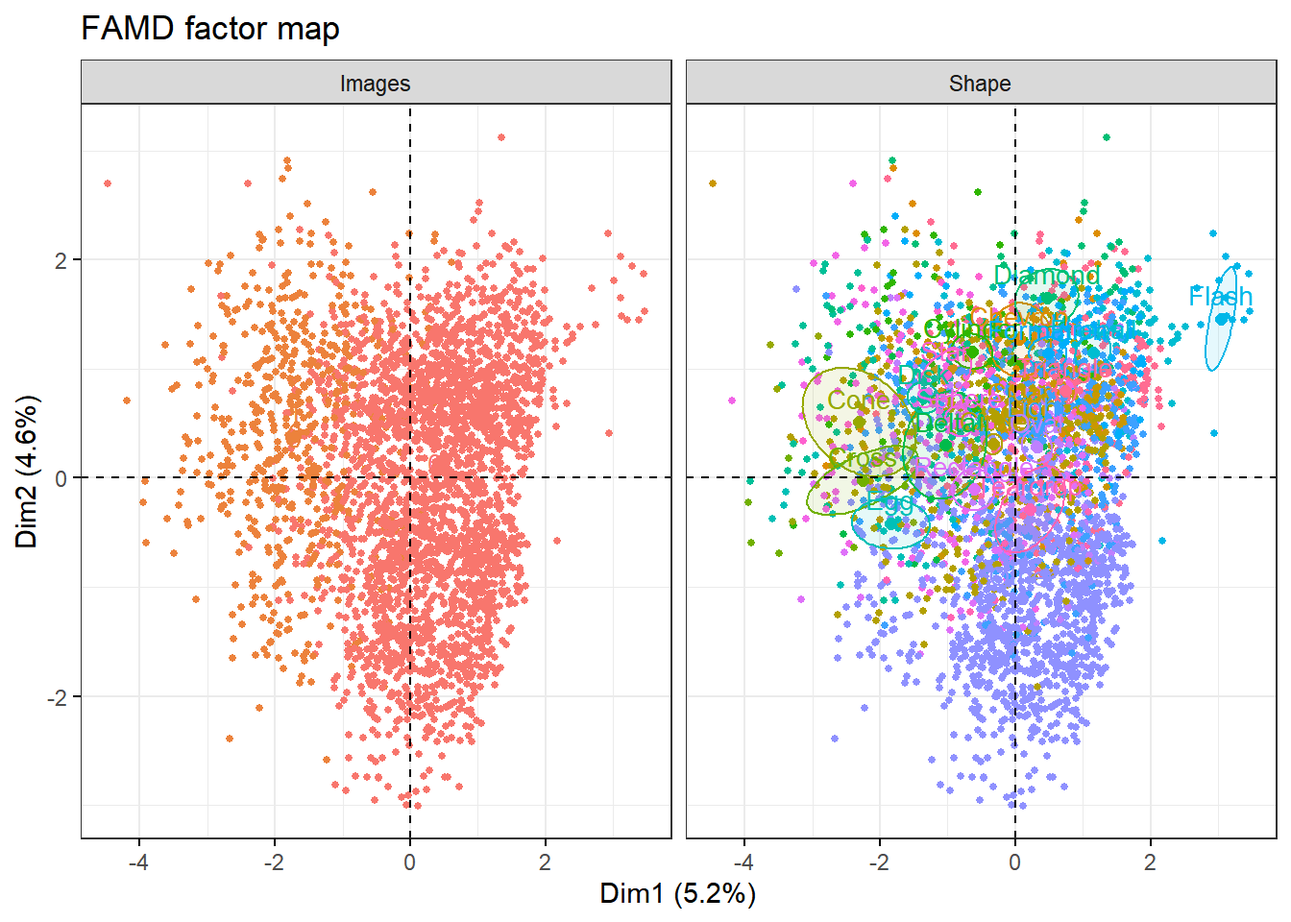
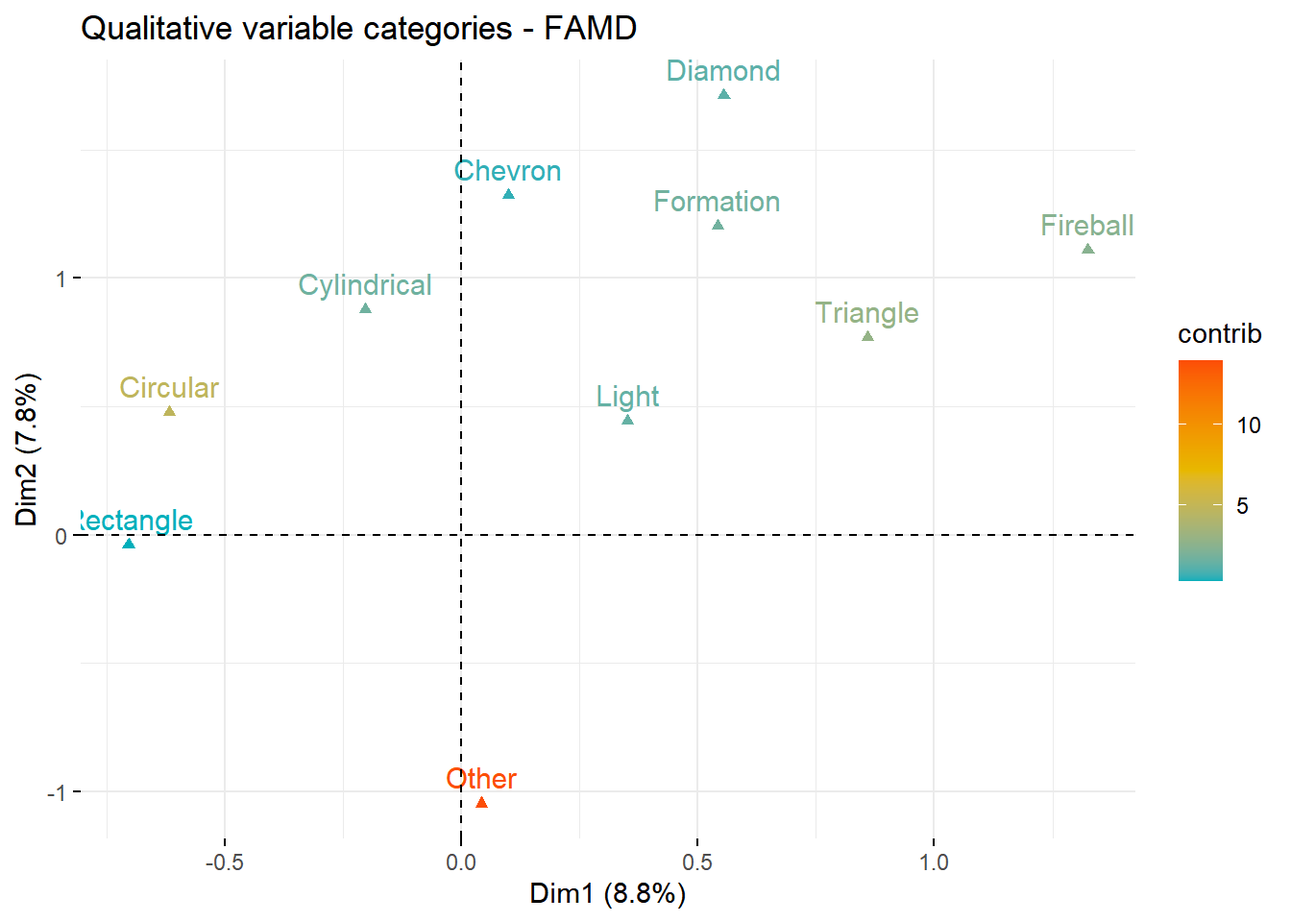
grouped shapes

diff --git a/notebooks/exp.html b/notebooks/exp.html
@@ -160,84 +160,148 @@ Attaching package: 'data.table'</code></pre>
 
     between, first, last</code></pre>
 </div>
+<div class="cell-output-display">
+<div class="quarto-figure quarto-figure-center">
+<figure class="figure">
+<p><img src="exp_files/figure-html/unnamed-chunk-1-1.png" class="img-fluid figure-img" width="672"></p>
+<p></p><figcaption class="figure-caption">Shape frequencies</figcaption><p></p>
+</figure>
+</div>
+</div>
 </div>
 <div class="cell">
-<div class="sourceCode cell-code" id="cb10"><pre class="sourceCode r code-with-copy"><code class="sourceCode r"><span id="cb10-1"><a href="#cb10-1" aria-hidden="true" tabindex="-1"></a>res.famd <span class="ot">&lt;-</span> <span class="fu">FAMD</span>(DT, <span class="at">graph =</span> F)</span>
-<span id="cb10-2"><a href="#cb10-2" aria-hidden="true" tabindex="-1"></a>eig.val <span class="ot">&lt;-</span> <span class="fu">get_eigenvalue</span>(res.famd)</span>
-<span id="cb10-3"><a href="#cb10-3" aria-hidden="true" tabindex="-1"></a><span class="co"># plot</span></span>
-<span id="cb10-4"><a href="#cb10-4" aria-hidden="true" tabindex="-1"></a><span class="fu">fviz_eig</span>(res.famd)</span></code><button title="Copy to Clipboard" class="code-copy-button"><i class="bi"></i></button></pre></div>
+<div class="sourceCode cell-code" id="cb10"><pre class="sourceCode r code-with-copy"><code class="sourceCode r"><span id="cb10-1"><a href="#cb10-1" aria-hidden="true" tabindex="-1"></a><span class="co"># some manual grouping</span></span>
+<span id="cb10-2"><a href="#cb10-2" aria-hidden="true" tabindex="-1"></a>DT[Shape <span class="sc">%in%</span> <span class="fu">c</span>(<span class="st">'Circle'</span>, <span class="st">'Egg'</span>, <span class="st">'Disk'</span>, <span class="st">'Oval'</span>, <span class="st">'Sphere'</span>), Shape <span class="sc">:</span><span class="er">=</span> <span class="st">'Circular'</span>]</span>
+<span id="cb10-3"><a href="#cb10-3" aria-hidden="true" tabindex="-1"></a>DT[Shape <span class="sc">%in%</span> <span class="fu">c</span>(<span class="st">'Cigar'</span>, <span class="st">'Cylinder'</span>), Shape <span class="sc">:</span><span class="er">=</span> <span class="st">'Cylindrical'</span>]</span>
+<span id="cb10-4"><a href="#cb10-4" aria-hidden="true" tabindex="-1"></a></span>
+<span id="cb10-5"><a href="#cb10-5" aria-hidden="true" tabindex="-1"></a><span class="fu">ggplot</span>(<span class="at">data=</span>DT, <span class="fu">aes</span>(<span class="fu">factor</span>(Shape), <span class="at">fill=</span>Shape)) <span class="sc">+</span></span>
+<span id="cb10-6"><a href="#cb10-6" aria-hidden="true" tabindex="-1"></a>  <span class="fu">geom_bar</span>()  <span class="sc">+</span></span>
+<span id="cb10-7"><a href="#cb10-7" aria-hidden="true" tabindex="-1"></a>  <span class="fu">coord_flip</span>()</span></code><button title="Copy to Clipboard" class="code-copy-button"><i class="bi"></i></button></pre></div>
 <div class="cell-output-display">
 <p><img src="exp_files/figure-html/unnamed-chunk-2-1.png" class="img-fluid" width="672"></p>
 </div>
 </div>
 <div class="cell">
-<div class="sourceCode cell-code" id="cb11"><pre class="sourceCode r code-with-copy"><code class="sourceCode r"><span id="cb11-1"><a href="#cb11-1" aria-hidden="true" tabindex="-1"></a>var <span class="ot">&lt;-</span> <span class="fu">get_famd_var</span>(res.famd)</span>
-<span id="cb11-2"><a href="#cb11-2" aria-hidden="true" tabindex="-1"></a><span class="co"># Coordinates of variables</span></span>
-<span id="cb11-3"><a href="#cb11-3" aria-hidden="true" tabindex="-1"></a><span class="fu">print</span>(<span class="fu">head</span>(var<span class="sc">$</span>coord))</span></code><button title="Copy to Clipboard" class="code-copy-button"><i class="bi"></i></button></pre></div>
+<div class="sourceCode cell-code" id="cb11"><pre class="sourceCode r code-with-copy"><code class="sourceCode r"><span id="cb11-1"><a href="#cb11-1" aria-hidden="true" tabindex="-1"></a><span class="fu">print</span>(<span class="fu">summary</span>(DT[, .(<span class="at">freq=</span>.N), <span class="at">by=</span>Shape]))</span></code><button title="Copy to Clipboard" class="code-copy-button"><i class="bi"></i></button></pre></div>
 <div class="cell-output cell-output-stdout">
-<pre><code>                       Dim.1        Dim.2       Dim.3        Dim.4       Dim.5
-Images           0.466604033 0.0272348627 0.003379757 0.0006704182 0.037200093
-Updated_Duration 0.033982375 0.0194261909 0.033064200 0.3203406277 0.104357640
-Lat              0.020133855 0.0215534995 0.412390085 0.0073504160 0.066636970
-Lng              0.008858782 0.1328400239 0.257144753 0.1034806088 0.041811149
-month            0.491605151 0.0009332282 0.001513371 0.0108839633 0.005557622
-hour             0.075288608 0.3755832920 0.123630897 0.0005136693 0.010869958</code></pre>
-</div>
-<div class="sourceCode cell-code" id="cb13"><pre class="sourceCode r code-with-copy"><code class="sourceCode r"><span id="cb13-1"><a href="#cb13-1" aria-hidden="true" tabindex="-1"></a><span class="co"># Cos2: quality of representation on the factore map</span></span>
-<span id="cb13-2"><a href="#cb13-2" aria-hidden="true" tabindex="-1"></a><span class="fu">print</span>(<span class="fu">head</span>(var<span class="sc">$</span>cos2))</span></code><button title="Copy to Clipboard" class="code-copy-button"><i class="bi"></i></button></pre></div>
-<div class="cell-output cell-output-stdout">
-<pre><code>                        Dim.1        Dim.2        Dim.3        Dim.4
-Images           2.177193e-01 7.417377e-04 1.142276e-05 4.494605e-07
-Updated_Duration 1.154802e-03 3.773769e-04 1.093241e-03 1.026181e-01
-Lat              4.053721e-04 4.645533e-04 1.700656e-01 5.402862e-05
-Lng              7.847802e-05 1.764647e-02 6.612342e-02 1.070824e-02
-month            2.416756e-01 8.709148e-07 2.290293e-06 1.184607e-04
-hour             5.668375e-03 1.410628e-01 1.528460e-02 2.638561e-07
-                        Dim.5
-Images           1.383847e-03
-Updated_Duration 1.089052e-02
-Lat              4.440486e-03
-Lng              1.748172e-03
-month            3.088717e-05
-hour             1.181560e-04</code></pre>
-</div>
-<div class="sourceCode cell-code" id="cb15"><pre class="sourceCode r code-with-copy"><code class="sourceCode r"><span id="cb15-1"><a href="#cb15-1" aria-hidden="true" tabindex="-1"></a><span class="co"># Contributions to the  dimensions</span></span>
-<span id="cb15-2"><a href="#cb15-2" aria-hidden="true" tabindex="-1"></a><span class="fu">print</span>(<span class="fu">head</span>(var<span class="sc">$</span>contrib))</span></code><button title="Copy to Clipboard" class="code-copy-button"><i class="bi"></i></button></pre></div>
-<div class="cell-output cell-output-stdout">
-<pre><code>                     Dim.1       Dim.2      Dim.3       Dim.4      Dim.5
-Images           34.334508  2.28745712  0.3006441  0.06269520  3.6037506
-Updated_Duration  2.500553  1.63160649  2.9412052 29.95715535 10.1096229
-Lat               1.481526  1.81027922 36.6839010  0.68738566  6.4554415
-Lng               0.651863 11.15723850 22.8741500  9.67715115  4.0504456
-month            36.174186  0.07838187  0.1346210  1.01783087  0.5383934
-hour              5.540024 31.54525455 10.9975088  0.04803659  1.0530247</code></pre>
+<pre><code>    Shape                freq        
+ Length:16          Min.   :   9.00  
+ Class :character   1st Qu.:  17.75  
+ Mode  :character   Median :  56.50  
+                    Mean   : 193.94  
+                    3rd Qu.: 201.00  
+                    Max.   :1060.00  </code></pre>
 </div>
 </div>
 <div class="cell">
-<div class="sourceCode cell-code" id="cb17"><pre class="sourceCode r code-with-copy"><code class="sourceCode r"><span id="cb17-1"><a href="#cb17-1" aria-hidden="true" tabindex="-1"></a><span class="co"># Plot of variables</span></span>
-<span id="cb17-2"><a href="#cb17-2" aria-hidden="true" tabindex="-1"></a><span class="fu">fviz_famd_var</span>(res.famd, <span class="at">repel =</span> <span class="cn">TRUE</span>)</span></code><button title="Copy to Clipboard" class="code-copy-button"><i class="bi"></i></button></pre></div>
-<div class="cell-output-display">
-<p><img src="exp_files/figure-html/unnamed-chunk-4-1.png" class="img-fluid" width="672"></p>
+<div class="sourceCode cell-code" id="cb13"><pre class="sourceCode r code-with-copy"><code class="sourceCode r"><span id="cb13-1"><a href="#cb13-1" aria-hidden="true" tabindex="-1"></a><span class="fu">print</span>(<span class="fu">setorder</span>(DT[, .(<span class="at">freq=</span>.N), <span class="at">by=</span>Shape], <span class="st">'freq'</span>)[])</span></code><button title="Copy to Clipboard" class="code-copy-button"><i class="bi"></i></button></pre></div>
+<div class="cell-output cell-output-stdout">
+<pre><code>          Shape freq
+ 1:        Cone    9
+ 2:       Cross   12
+ 3:       Flash   14
+ 4:       Delta   14
+ 5:    Teardrop   19
+ 6:        Star   30
+ 7:     Chevron   33
+ 8:     Diamond   37
+ 9:   Rectangle   76
+10:    Fireball   81
+11:   Formation   95
+12: Cylindrical  197
+13:    Triangle  213
+14:       Light  440
+15:    Circular  773
+16:       Other 1060</code></pre>
 </div>
 </div>
 <div class="cell">
-<div class="sourceCode cell-code" id="cb18"><pre class="sourceCode r code-with-copy"><code class="sourceCode r"><span id="cb18-1"><a href="#cb18-1" aria-hidden="true" tabindex="-1"></a><span class="co"># Contribution to the first dimension</span></span>
-<span id="cb18-2"><a href="#cb18-2" aria-hidden="true" tabindex="-1"></a><span class="fu">fviz_contrib</span>(res.famd, <span class="st">"var"</span>, <span class="at">axes =</span> <span class="dv">1</span>)</span></code><button title="Copy to Clipboard" class="code-copy-button"><i class="bi"></i></button></pre></div>
+<div class="sourceCode cell-code" id="cb15"><pre class="sourceCode r code-with-copy"><code class="sourceCode r"><span id="cb15-1"><a href="#cb15-1" aria-hidden="true" tabindex="-1"></a>DT[Shape <span class="sc">%in%</span> <span class="fu">setorder</span>(DT[, .(<span class="at">freq=</span>.N), <span class="at">by=</span>Shape], <span class="st">'freq'</span>)<span class="sc">$</span>Shape[<span class="dv">1</span><span class="sc">:</span><span class="dv">6</span>], Shape <span class="sc">:</span><span class="er">=</span> <span class="st">'Other'</span>]</span>
+<span id="cb15-2"><a href="#cb15-2" aria-hidden="true" tabindex="-1"></a></span>
+<span id="cb15-3"><a href="#cb15-3" aria-hidden="true" tabindex="-1"></a><span class="fu">ggplot</span>(<span class="at">data=</span>DT, <span class="fu">aes</span>(<span class="fu">factor</span>(Shape), <span class="at">fill=</span>Shape)) <span class="sc">+</span></span>
+<span id="cb15-4"><a href="#cb15-4" aria-hidden="true" tabindex="-1"></a>  <span class="fu">geom_bar</span>()  <span class="sc">+</span></span>
+<span id="cb15-5"><a href="#cb15-5" aria-hidden="true" tabindex="-1"></a>  <span class="fu">coord_flip</span>()</span></code><button title="Copy to Clipboard" class="code-copy-button"><i class="bi"></i></button></pre></div>
 <div class="cell-output-display">
 <p><img src="exp_files/figure-html/unnamed-chunk-5-1.png" class="img-fluid" width="672"></p>
 </div>
 </div>
 <div class="cell">
-<div class="sourceCode cell-code" id="cb19"><pre class="sourceCode r code-with-copy"><code class="sourceCode r"><span id="cb19-1"><a href="#cb19-1" aria-hidden="true" tabindex="-1"></a><span class="co"># Contribution to the second dimension</span></span>
-<span id="cb19-2"><a href="#cb19-2" aria-hidden="true" tabindex="-1"></a><span class="fu">fviz_contrib</span>(res.famd, <span class="st">"var"</span>, <span class="at">axes =</span> <span class="dv">2</span>)</span></code><button title="Copy to Clipboard" class="code-copy-button"><i class="bi"></i></button></pre></div>
+<div class="sourceCode cell-code" id="cb16"><pre class="sourceCode r code-with-copy"><code class="sourceCode r"><span id="cb16-1"><a href="#cb16-1" aria-hidden="true" tabindex="-1"></a>res.famd <span class="ot">&lt;-</span> <span class="fu">FAMD</span>(DT, <span class="at">graph =</span> F)</span>
+<span id="cb16-2"><a href="#cb16-2" aria-hidden="true" tabindex="-1"></a>eig.val <span class="ot">&lt;-</span> <span class="fu">get_eigenvalue</span>(res.famd)</span>
+<span id="cb16-3"><a href="#cb16-3" aria-hidden="true" tabindex="-1"></a><span class="co"># plot</span></span>
+<span id="cb16-4"><a href="#cb16-4" aria-hidden="true" tabindex="-1"></a><span class="fu">fviz_eig</span>(res.famd)</span></code><button title="Copy to Clipboard" class="code-copy-button"><i class="bi"></i></button></pre></div>
 <div class="cell-output-display">
 <p><img src="exp_files/figure-html/unnamed-chunk-6-1.png" class="img-fluid" width="672"></p>
 </div>
 </div>
 <div class="cell">
-<div class="sourceCode cell-code" id="cb20"><pre class="sourceCode r code-with-copy"><code class="sourceCode r"><span id="cb20-1"><a href="#cb20-1" aria-hidden="true" tabindex="-1"></a><span class="co"># extract the results for quantitative variables</span></span>
-<span id="cb20-2"><a href="#cb20-2" aria-hidden="true" tabindex="-1"></a>quanti.var <span class="ot">&lt;-</span> <span class="fu">get_famd_var</span>(res.famd, <span class="st">"quanti.var"</span>)</span>
-<span id="cb20-3"><a href="#cb20-3" aria-hidden="true" tabindex="-1"></a><span class="fu">print</span>(quanti.var)</span></code><button title="Copy to Clipboard" class="code-copy-button"><i class="bi"></i></button></pre></div>
+<div class="sourceCode cell-code" id="cb17"><pre class="sourceCode r code-with-copy"><code class="sourceCode r"><span id="cb17-1"><a href="#cb17-1" aria-hidden="true" tabindex="-1"></a>var <span class="ot">&lt;-</span> <span class="fu">get_famd_var</span>(res.famd)</span>
+<span id="cb17-2"><a href="#cb17-2" aria-hidden="true" tabindex="-1"></a><span class="co"># Coordinates of variables</span></span>
+<span id="cb17-3"><a href="#cb17-3" aria-hidden="true" tabindex="-1"></a><span class="fu">print</span>(<span class="fu">head</span>(var<span class="sc">$</span>coord))</span></code><button title="Copy to Clipboard" class="code-copy-button"><i class="bi"></i></button></pre></div>
+<div class="cell-output cell-output-stdout">
+<pre><code>                       Dim.1       Dim.2        Dim.3       Dim.4       Dim.5
+Images           0.481038875 0.042689146 0.0002418887 0.001406802 0.033538006
+Updated_Duration 0.047199755 0.028318602 0.0526445726 0.195513509 0.096426139
+Lat              0.030129086 0.017964834 0.4156688038 0.005012733 0.029641535
+Lng              0.003989455 0.122317781 0.2932527147 0.170024646 0.010040583
+month            0.493281602 0.001664271 0.0006173218 0.025378140 0.004358104
+hour             0.088363159 0.355835261 0.1372538742 0.005342196 0.003282313</code></pre>
+</div>
+<div class="sourceCode cell-code" id="cb19"><pre class="sourceCode r code-with-copy"><code class="sourceCode r"><span id="cb19-1"><a href="#cb19-1" aria-hidden="true" tabindex="-1"></a><span class="co"># Cos2: quality of representation on the factore map</span></span>
+<span id="cb19-2"><a href="#cb19-2" aria-hidden="true" tabindex="-1"></a><span class="fu">print</span>(<span class="fu">head</span>(var<span class="sc">$</span>cos2))</span></code><button title="Copy to Clipboard" class="code-copy-button"><i class="bi"></i></button></pre></div>
+<div class="cell-output cell-output-stdout">
+<pre><code>                        Dim.1        Dim.2        Dim.3        Dim.4
+Images           2.313984e-01 1.822363e-03 5.851014e-08 1.979091e-06
+Updated_Duration 2.227817e-03 8.019432e-04 2.771451e-03 3.822553e-02
+Lat              9.077618e-04 3.227353e-04 1.727806e-01 2.512749e-05
+Lng              1.591575e-05 1.496164e-02 8.599715e-02 2.890838e-02
+month            2.433267e-01 2.769799e-06 3.810862e-07 6.440500e-04
+hour             7.808048e-03 1.266187e-01 1.883863e-02 2.853906e-05
+                        Dim.5
+Images           1.124798e-03
+Updated_Duration 9.298000e-03
+Lat              8.786206e-04
+Lng              1.008133e-04
+month            1.899307e-05
+hour             1.077358e-05</code></pre>
+</div>
+<div class="sourceCode cell-code" id="cb21"><pre class="sourceCode r code-with-copy"><code class="sourceCode r"><span id="cb21-1"><a href="#cb21-1" aria-hidden="true" tabindex="-1"></a><span class="co"># Contributions to the  dimensions</span></span>
+<span id="cb21-2"><a href="#cb21-2" aria-hidden="true" tabindex="-1"></a><span class="fu">print</span>(<span class="fu">head</span>(var<span class="sc">$</span>contrib))</span></code><button title="Copy to Clipboard" class="code-copy-button"><i class="bi"></i></button></pre></div>
+<div class="cell-output cell-output-stdout">
+<pre><code>                     Dim.1      Dim.2       Dim.3      Dim.4     Dim.5
+Images           36.353898  3.6301566  0.02181459  0.1361156 3.2987770
+Updated_Duration  3.567061  2.4081288  4.74771947 18.9169808 9.4844139
+Lat               2.276967  1.5276754 37.48684389  0.4850088 2.9155225
+Lng               0.301498 10.4015362 26.44682169 16.4507966 0.9875854
+month            37.279126  0.1415246  0.05567280  2.4554711 0.4286603
+hour              6.677933 30.2591603 12.37815902  0.5168861 0.3228462</code></pre>
+</div>
+</div>
+<div class="cell">
+<div class="sourceCode cell-code" id="cb23"><pre class="sourceCode r code-with-copy"><code class="sourceCode r"><span id="cb23-1"><a href="#cb23-1" aria-hidden="true" tabindex="-1"></a><span class="co"># Plot of variables</span></span>
+<span id="cb23-2"><a href="#cb23-2" aria-hidden="true" tabindex="-1"></a><span class="fu">fviz_famd_var</span>(res.famd, <span class="at">repel =</span> <span class="cn">TRUE</span>)</span></code><button title="Copy to Clipboard" class="code-copy-button"><i class="bi"></i></button></pre></div>
+<div class="cell-output-display">
+<p><img src="exp_files/figure-html/unnamed-chunk-8-1.png" class="img-fluid" width="672"></p>
+</div>
+</div>
+<div class="cell">
+<div class="sourceCode cell-code" id="cb24"><pre class="sourceCode r code-with-copy"><code class="sourceCode r"><span id="cb24-1"><a href="#cb24-1" aria-hidden="true" tabindex="-1"></a><span class="co"># Contribution to the first dimension</span></span>
+<span id="cb24-2"><a href="#cb24-2" aria-hidden="true" tabindex="-1"></a><span class="fu">fviz_contrib</span>(res.famd, <span class="st">"var"</span>, <span class="at">axes =</span> <span class="dv">1</span>)</span></code><button title="Copy to Clipboard" class="code-copy-button"><i class="bi"></i></button></pre></div>
+<div class="cell-output-display">
+<p><img src="exp_files/figure-html/unnamed-chunk-9-1.png" class="img-fluid" width="672"></p>
+</div>
+</div>
+<div class="cell">
+<div class="sourceCode cell-code" id="cb25"><pre class="sourceCode r code-with-copy"><code class="sourceCode r"><span id="cb25-1"><a href="#cb25-1" aria-hidden="true" tabindex="-1"></a><span class="co"># Contribution to the second dimension</span></span>
+<span id="cb25-2"><a href="#cb25-2" aria-hidden="true" tabindex="-1"></a><span class="fu">fviz_contrib</span>(res.famd, <span class="st">"var"</span>, <span class="at">axes =</span> <span class="dv">2</span>)</span></code><button title="Copy to Clipboard" class="code-copy-button"><i class="bi"></i></button></pre></div>
+<div class="cell-output-display">
+<p><img src="exp_files/figure-html/unnamed-chunk-10-1.png" class="img-fluid" width="672"></p>
+</div>
+</div>
+<div class="cell">
+<div class="sourceCode cell-code" id="cb26"><pre class="sourceCode r code-with-copy"><code class="sourceCode r"><span id="cb26-1"><a href="#cb26-1" aria-hidden="true" tabindex="-1"></a><span class="co"># extract the results for quantitative variables</span></span>
+<span id="cb26-2"><a href="#cb26-2" aria-hidden="true" tabindex="-1"></a>quanti.var <span class="ot">&lt;-</span> <span class="fu">get_famd_var</span>(res.famd, <span class="st">"quanti.var"</span>)</span>
+<span id="cb26-3"><a href="#cb26-3" aria-hidden="true" tabindex="-1"></a><span class="fu">print</span>(quanti.var)</span></code><button title="Copy to Clipboard" class="code-copy-button"><i class="bi"></i></button></pre></div>
 <div class="cell-output cell-output-stdout">
 <pre><code>FAMD results for quantitative variables 
  ===================================================
@@ -248,29 +312,29 @@ hour              5.540024 31.54525455 10.9975088  0.04803659  1.0530247</code><
 </div>
 </div>
 <div class="cell">
-<div class="sourceCode cell-code" id="cb22"><pre class="sourceCode r code-with-copy"><code class="sourceCode r"><span id="cb22-1"><a href="#cb22-1" aria-hidden="true" tabindex="-1"></a><span class="fu">fviz_famd_var</span>(res.famd, <span class="st">"quanti.var"</span>, <span class="at">col.var =</span> <span class="st">"contrib"</span>, </span>
-<span id="cb22-2"><a href="#cb22-2" aria-hidden="true" tabindex="-1"></a>              <span class="at">gradient.cols =</span> <span class="fu">c</span>(<span class="st">"#00AFBB"</span>, <span class="st">"#E7B800"</span>, <span class="st">"#FC4E07"</span>),</span>
-<span id="cb22-3"><a href="#cb22-3" aria-hidden="true" tabindex="-1"></a>              <span class="at">repel =</span> T)</span></code><button title="Copy to Clipboard" class="code-copy-button"><i class="bi"></i></button></pre></div>
+<div class="sourceCode cell-code" id="cb28"><pre class="sourceCode r code-with-copy"><code class="sourceCode r"><span id="cb28-1"><a href="#cb28-1" aria-hidden="true" tabindex="-1"></a><span class="fu">fviz_famd_var</span>(res.famd, <span class="st">"quanti.var"</span>, <span class="at">col.var =</span> <span class="st">"contrib"</span>, </span>
+<span id="cb28-2"><a href="#cb28-2" aria-hidden="true" tabindex="-1"></a>              <span class="at">gradient.cols =</span> <span class="fu">c</span>(<span class="st">"#00AFBB"</span>, <span class="st">"#E7B800"</span>, <span class="st">"#FC4E07"</span>),</span>
+<span id="cb28-3"><a href="#cb28-3" aria-hidden="true" tabindex="-1"></a>              <span class="at">repel =</span> T)</span></code><button title="Copy to Clipboard" class="code-copy-button"><i class="bi"></i></button></pre></div>
 <div class="cell-output-display">
-<p><img src="exp_files/figure-html/unnamed-chunk-8-1.png" class="img-fluid" width="672"></p>
+<p><img src="exp_files/figure-html/unnamed-chunk-12-1.png" class="img-fluid" width="672"></p>
 </div>
 </div>
 <div class="cell">
-<div class="sourceCode cell-code" id="cb23"><pre class="sourceCode r code-with-copy"><code class="sourceCode r"><span id="cb23-1"><a href="#cb23-1" aria-hidden="true" tabindex="-1"></a><span class="co"># Color by cos2 values: quality on the factor map</span></span>
-<span id="cb23-2"><a href="#cb23-2" aria-hidden="true" tabindex="-1"></a></span>
-<span id="cb23-3"><a href="#cb23-3" aria-hidden="true" tabindex="-1"></a><span class="fu">fviz_famd_var</span>(res.famd, <span class="st">"quanti.var"</span>, <span class="at">col.var =</span> <span class="st">"cos2"</span>,</span>
-<span id="cb23-4"><a href="#cb23-4" aria-hidden="true" tabindex="-1"></a></span>
-<span id="cb23-5"><a href="#cb23-5" aria-hidden="true" tabindex="-1"></a>              <span class="at">gradient.cols =</span> <span class="fu">c</span>(<span class="st">"#00AFBB"</span>, <span class="st">"#E7B800"</span>, <span class="st">"#FC4E07"</span>), </span>
-<span id="cb23-6"><a href="#cb23-6" aria-hidden="true" tabindex="-1"></a></span>
-<span id="cb23-7"><a href="#cb23-7" aria-hidden="true" tabindex="-1"></a>              <span class="at">repel =</span> <span class="cn">TRUE</span>)</span></code><button title="Copy to Clipboard" class="code-copy-button"><i class="bi"></i></button></pre></div>
+<div class="sourceCode cell-code" id="cb29"><pre class="sourceCode r code-with-copy"><code class="sourceCode r"><span id="cb29-1"><a href="#cb29-1" aria-hidden="true" tabindex="-1"></a><span class="co"># Color by cos2 values: quality on the factor map</span></span>
+<span id="cb29-2"><a href="#cb29-2" aria-hidden="true" tabindex="-1"></a></span>
+<span id="cb29-3"><a href="#cb29-3" aria-hidden="true" tabindex="-1"></a><span class="fu">fviz_famd_var</span>(res.famd, <span class="st">"quanti.var"</span>, <span class="at">col.var =</span> <span class="st">"cos2"</span>,</span>
+<span id="cb29-4"><a href="#cb29-4" aria-hidden="true" tabindex="-1"></a></span>
+<span id="cb29-5"><a href="#cb29-5" aria-hidden="true" tabindex="-1"></a>              <span class="at">gradient.cols =</span> <span class="fu">c</span>(<span class="st">"#00AFBB"</span>, <span class="st">"#E7B800"</span>, <span class="st">"#FC4E07"</span>), </span>
+<span id="cb29-6"><a href="#cb29-6" aria-hidden="true" tabindex="-1"></a></span>
+<span id="cb29-7"><a href="#cb29-7" aria-hidden="true" tabindex="-1"></a>              <span class="at">repel =</span> <span class="cn">TRUE</span>)</span></code><button title="Copy to Clipboard" class="code-copy-button"><i class="bi"></i></button></pre></div>
 <div class="cell-output-display">
-<p><img src="exp_files/figure-html/unnamed-chunk-9-1.png" class="img-fluid" width="672"></p>
+<p><img src="exp_files/figure-html/unnamed-chunk-13-1.png" class="img-fluid" width="672"></p>
 </div>
 </div>
 <div class="cell">
-<div class="sourceCode cell-code" id="cb24"><pre class="sourceCode r code-with-copy"><code class="sourceCode r"><span id="cb24-1"><a href="#cb24-1" aria-hidden="true" tabindex="-1"></a>quali.var <span class="ot">&lt;-</span> <span class="fu">get_famd_var</span>(res.famd, <span class="st">"quali.var"</span>)</span>
-<span id="cb24-2"><a href="#cb24-2" aria-hidden="true" tabindex="-1"></a></span>
-<span id="cb24-3"><a href="#cb24-3" aria-hidden="true" tabindex="-1"></a><span class="fu">print</span>(quali.var)</span></code><button title="Copy to Clipboard" class="code-copy-button"><i class="bi"></i></button></pre></div>
+<div class="sourceCode cell-code" id="cb30"><pre class="sourceCode r code-with-copy"><code class="sourceCode r"><span id="cb30-1"><a href="#cb30-1" aria-hidden="true" tabindex="-1"></a>quali.var <span class="ot">&lt;-</span> <span class="fu">get_famd_var</span>(res.famd, <span class="st">"quali.var"</span>)</span>
+<span id="cb30-2"><a href="#cb30-2" aria-hidden="true" tabindex="-1"></a></span>
+<span id="cb30-3"><a href="#cb30-3" aria-hidden="true" tabindex="-1"></a><span class="fu">print</span>(quali.var)</span></code><button title="Copy to Clipboard" class="code-copy-button"><i class="bi"></i></button></pre></div>
 <div class="cell-output cell-output-stdout">
 <pre><code>FAMD results for qualitative variable categories 
  ===================================================
@@ -281,19 +345,19 @@ hour              5.540024 31.54525455 10.9975088  0.04803659  1.0530247</code><
 </div>
 </div>
 <div class="cell">
-<div class="sourceCode cell-code" id="cb26"><pre class="sourceCode r code-with-copy"><code class="sourceCode r"><span id="cb26-1"><a href="#cb26-1" aria-hidden="true" tabindex="-1"></a><span class="fu">fviz_famd_var</span>(res.famd, <span class="st">"quali.var"</span>, <span class="at">col.var =</span> <span class="st">"contrib"</span>, </span>
-<span id="cb26-2"><a href="#cb26-2" aria-hidden="true" tabindex="-1"></a></span>
-<span id="cb26-3"><a href="#cb26-3" aria-hidden="true" tabindex="-1"></a>              <span class="at">gradient.cols =</span> <span class="fu">c</span>(<span class="st">"#00AFBB"</span>, <span class="st">"#E7B800"</span>, <span class="st">"#FC4E07"</span>)</span>
-<span id="cb26-4"><a href="#cb26-4" aria-hidden="true" tabindex="-1"></a></span>
-<span id="cb26-5"><a href="#cb26-5" aria-hidden="true" tabindex="-1"></a>)</span></code><button title="Copy to Clipboard" class="code-copy-button"><i class="bi"></i></button></pre></div>
+<div class="sourceCode cell-code" id="cb32"><pre class="sourceCode r code-with-copy"><code class="sourceCode r"><span id="cb32-1"><a href="#cb32-1" aria-hidden="true" tabindex="-1"></a><span class="fu">fviz_famd_var</span>(res.famd, <span class="st">"quali.var"</span>, <span class="at">col.var =</span> <span class="st">"contrib"</span>, </span>
+<span id="cb32-2"><a href="#cb32-2" aria-hidden="true" tabindex="-1"></a></span>
+<span id="cb32-3"><a href="#cb32-3" aria-hidden="true" tabindex="-1"></a>              <span class="at">gradient.cols =</span> <span class="fu">c</span>(<span class="st">"#00AFBB"</span>, <span class="st">"#E7B800"</span>, <span class="st">"#FC4E07"</span>)</span>
+<span id="cb32-4"><a href="#cb32-4" aria-hidden="true" tabindex="-1"></a></span>
+<span id="cb32-5"><a href="#cb32-5" aria-hidden="true" tabindex="-1"></a>)</span></code><button title="Copy to Clipboard" class="code-copy-button"><i class="bi"></i></button></pre></div>
 <div class="cell-output-display">
-<p><img src="exp_files/figure-html/unnamed-chunk-11-1.png" class="img-fluid" width="672"></p>
+<p><img src="exp_files/figure-html/unnamed-chunk-15-1.png" class="img-fluid" width="672"></p>
 </div>
 </div>
 <div class="cell">
-<div class="sourceCode cell-code" id="cb27"><pre class="sourceCode r code-with-copy"><code class="sourceCode r"><span id="cb27-1"><a href="#cb27-1" aria-hidden="true" tabindex="-1"></a>ind <span class="ot">&lt;-</span> <span class="fu">get_famd_ind</span>(res.famd)</span>
-<span id="cb27-2"><a href="#cb27-2" aria-hidden="true" tabindex="-1"></a></span>
-<span id="cb27-3"><a href="#cb27-3" aria-hidden="true" tabindex="-1"></a><span class="fu">print</span>(ind)</span></code><button title="Copy to Clipboard" class="code-copy-button"><i class="bi"></i></button></pre></div>
+<div class="sourceCode cell-code" id="cb33"><pre class="sourceCode r code-with-copy"><code class="sourceCode r"><span id="cb33-1"><a href="#cb33-1" aria-hidden="true" tabindex="-1"></a>ind <span class="ot">&lt;-</span> <span class="fu">get_famd_ind</span>(res.famd)</span>
+<span id="cb33-2"><a href="#cb33-2" aria-hidden="true" tabindex="-1"></a></span>
+<span id="cb33-3"><a href="#cb33-3" aria-hidden="true" tabindex="-1"></a><span class="fu">print</span>(ind)</span></code><button title="Copy to Clipboard" class="code-copy-button"><i class="bi"></i></button></pre></div>
 <div class="cell-output cell-output-stdout">
 <pre><code>FAMD results for individuals 
  ===================================================
@@ -304,31 +368,31 @@ hour              5.540024 31.54525455 10.9975088  0.04803659  1.0530247</code><
 </div>
 </div>
 <div class="cell">
-<div class="sourceCode cell-code" id="cb29"><pre class="sourceCode r code-with-copy"><code class="sourceCode r"><span id="cb29-1"><a href="#cb29-1" aria-hidden="true" tabindex="-1"></a><span class="fu">fviz_famd_ind</span>(res.famd, <span class="at">col.ind =</span> <span class="st">"cos2"</span>, </span>
-<span id="cb29-2"><a href="#cb29-2" aria-hidden="true" tabindex="-1"></a></span>
-<span id="cb29-3"><a href="#cb29-3" aria-hidden="true" tabindex="-1"></a>              <span class="at">gradient.cols =</span> <span class="fu">c</span>(<span class="st">"#00AFBB"</span>, <span class="st">"#E7B800"</span>, <span class="st">"#FC4E07"</span>),</span>
-<span id="cb29-4"><a href="#cb29-4" aria-hidden="true" tabindex="-1"></a></span>
-<span id="cb29-5"><a href="#cb29-5" aria-hidden="true" tabindex="-1"></a>              <span class="at">repel =</span> <span class="cn">TRUE</span>)</span></code><button title="Copy to Clipboard" class="code-copy-button"><i class="bi"></i></button></pre></div>
+<div class="sourceCode cell-code" id="cb35"><pre class="sourceCode r code-with-copy"><code class="sourceCode r"><span id="cb35-1"><a href="#cb35-1" aria-hidden="true" tabindex="-1"></a><span class="fu">fviz_famd_ind</span>(res.famd, <span class="at">col.ind =</span> <span class="st">"cos2"</span>, </span>
+<span id="cb35-2"><a href="#cb35-2" aria-hidden="true" tabindex="-1"></a></span>
+<span id="cb35-3"><a href="#cb35-3" aria-hidden="true" tabindex="-1"></a>              <span class="at">gradient.cols =</span> <span class="fu">c</span>(<span class="st">"#00AFBB"</span>, <span class="st">"#E7B800"</span>, <span class="st">"#FC4E07"</span>),</span>
+<span id="cb35-4"><a href="#cb35-4" aria-hidden="true" tabindex="-1"></a></span>
+<span id="cb35-5"><a href="#cb35-5" aria-hidden="true" tabindex="-1"></a>              <span class="at">repel =</span> <span class="cn">TRUE</span>)</span></code><button title="Copy to Clipboard" class="code-copy-button"><i class="bi"></i></button></pre></div>
 <div class="cell-output cell-output-stderr">
-<pre><code>Warning: ggrepel: 3075 unlabeled data points (too many overlaps). Consider
+<pre><code>Warning: ggrepel: 3084 unlabeled data points (too many overlaps). Consider
 increasing max.overlaps</code></pre>
 </div>
 <div class="cell-output-display">
-<p><img src="exp_files/figure-html/unnamed-chunk-13-1.png" class="img-fluid" width="672"></p>
+<p><img src="exp_files/figure-html/unnamed-chunk-17-1.png" class="img-fluid" width="672"></p>
 </div>
 </div>
 <div class="cell">
-<div class="sourceCode cell-code" id="cb31"><pre class="sourceCode r code-with-copy"><code class="sourceCode r"><span id="cb31-1"><a href="#cb31-1" aria-hidden="true" tabindex="-1"></a><span class="fu">fviz_ellipses</span>(res.famd, <span class="dv">1</span>, <span class="at">repel =</span> <span class="cn">TRUE</span>)</span></code><button title="Copy to Clipboard" class="code-copy-button"><i class="bi"></i></button></pre></div>
+<div class="sourceCode cell-code" id="cb37"><pre class="sourceCode r code-with-copy"><code class="sourceCode r"><span id="cb37-1"><a href="#cb37-1" aria-hidden="true" tabindex="-1"></a><span class="fu">fviz_ellipses</span>(res.famd, <span class="dv">1</span>, <span class="at">repel =</span> <span class="cn">TRUE</span>)</span></code><button title="Copy to Clipboard" class="code-copy-button"><i class="bi"></i></button></pre></div>
 <div class="cell-output cell-output-stderr">
-<pre><code>Warning: ggrepel: 3083 unlabeled data points (too many overlaps). Consider
+<pre><code>Warning: ggrepel: 3086 unlabeled data points (too many overlaps). Consider
 increasing max.overlaps</code></pre>
 </div>
 <div class="cell-output-display">
-<p><img src="exp_files/figure-html/unnamed-chunk-14-1.png" class="img-fluid" width="672"></p>
+<p><img src="exp_files/figure-html/unnamed-chunk-18-1.png" class="img-fluid" width="672"></p>
 </div>
 </div>
 <div class="cell">
-<div class="sourceCode cell-code" id="cb33"><pre class="sourceCode r code-with-copy"><code class="sourceCode r"><span id="cb33-1"><a href="#cb33-1" aria-hidden="true" tabindex="-1"></a><span class="fu">fviz_ellipses</span>(res.famd, <span class="dv">1</span><span class="sc">:</span><span class="dv">2</span>, <span class="at">geom =</span> <span class="st">"point"</span>)</span></code><button title="Copy to Clipboard" class="code-copy-button"><i class="bi"></i></button></pre></div>
+<div class="sourceCode cell-code" id="cb39"><pre class="sourceCode r code-with-copy"><code class="sourceCode r"><span id="cb39-1"><a href="#cb39-1" aria-hidden="true" tabindex="-1"></a><span class="fu">fviz_ellipses</span>(res.famd, <span class="dv">1</span><span class="sc">:</span><span class="dv">2</span>, <span class="at">geom =</span> <span class="st">"point"</span>)</span></code><button title="Copy to Clipboard" class="code-copy-button"><i class="bi"></i></button></pre></div>
 <div class="cell-output cell-output-stderr">
 <pre><code>Warning: `gather_()` was deprecated in tidyr 1.2.0.
 Please use `gather()` instead.
@@ -336,7 +400,7 @@ This warning is displayed once every 8 hours.
 Call `lifecycle::last_lifecycle_warnings()` to see where this warning was generated.</code></pre>
 </div>
 <div class="cell-output-display">
-<p><img src="exp_files/figure-html/unnamed-chunk-15-1.png" class="img-fluid" width="672"></p>
+<p><img src="exp_files/figure-html/unnamed-chunk-19-1.png" class="img-fluid" width="672"></p>
 </div>
 </div>
 
